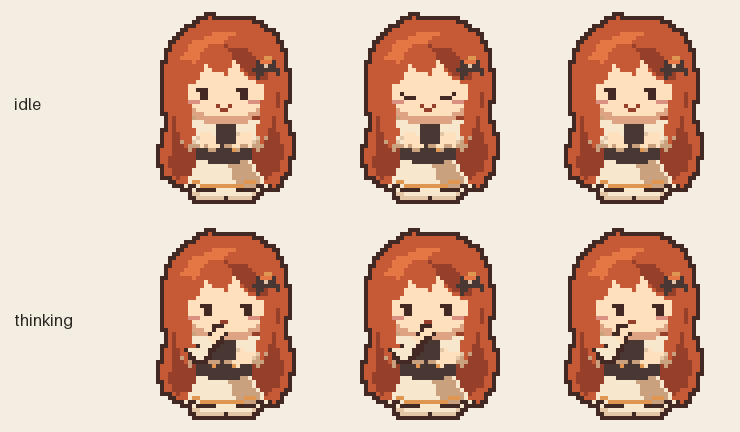
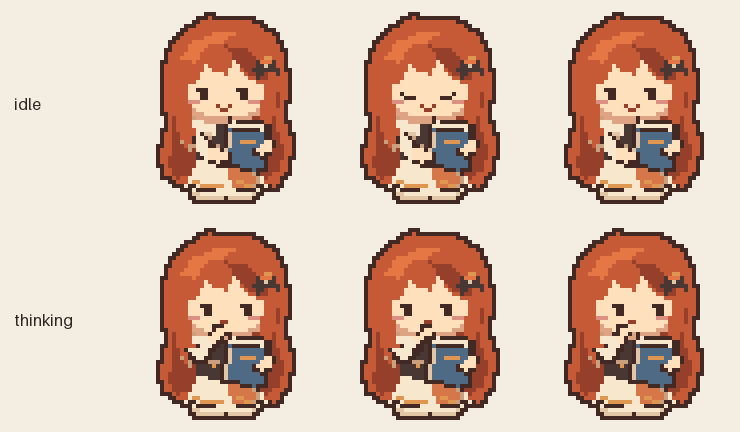
Restore the heroine book and dress details in both poses

diff --git a/docs/STATUS.md b/docs/STATUS.md
@@ -57,5 +57,5 @@
 ## C7 宠物预览
 
 - 肉包方向已确认。已清理闲坐与思考的轮廓及杂点，补完五个必做状态，并提交睡醒、左右轻戳、挠痒、拎起、走路和整理帽子的预览。等主人确认总预览后，用 `tools/make_pet_pack.py` 放进 `App/Pets/roubao/`，署名「lllhr94」、授权「仅限 Clio 使用」，再跑一次 `shots=false` 的编译。
-- 红发少女的旧缩图改为直接在 48×48 像素格绘制。先看闲坐、思考两组。
+- 红发少女的旧缩图改为直接在 48×48 像素格绘制，补回抱书、黑色束腰和铜橘裙片。先看闲坐、思考两组。
 - C9 引导图和 C5 头像接入等首只宠物定稿。
